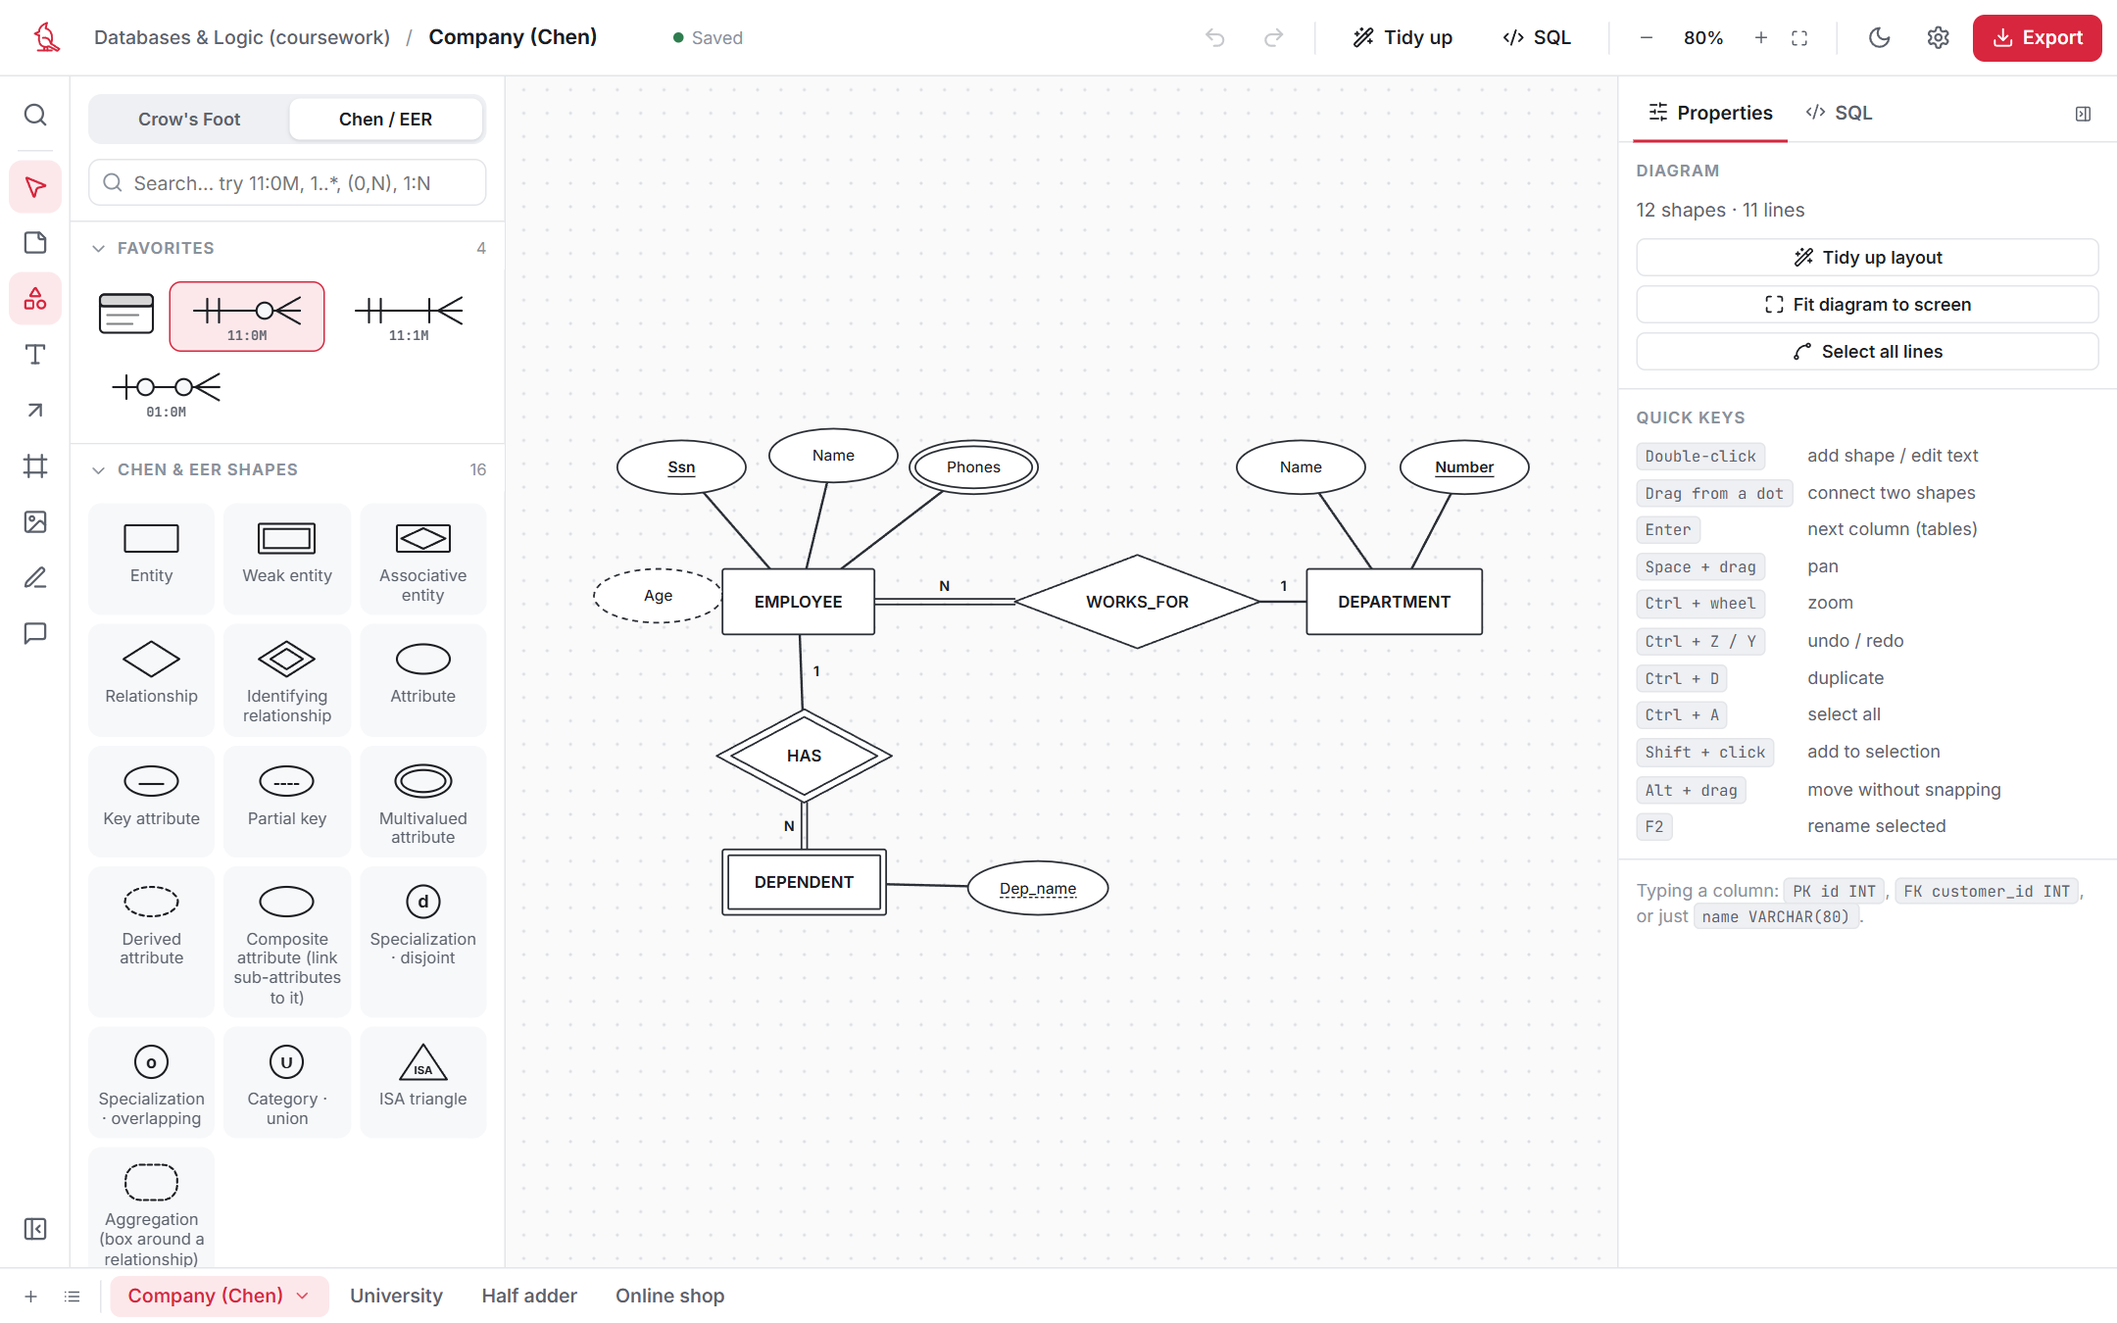
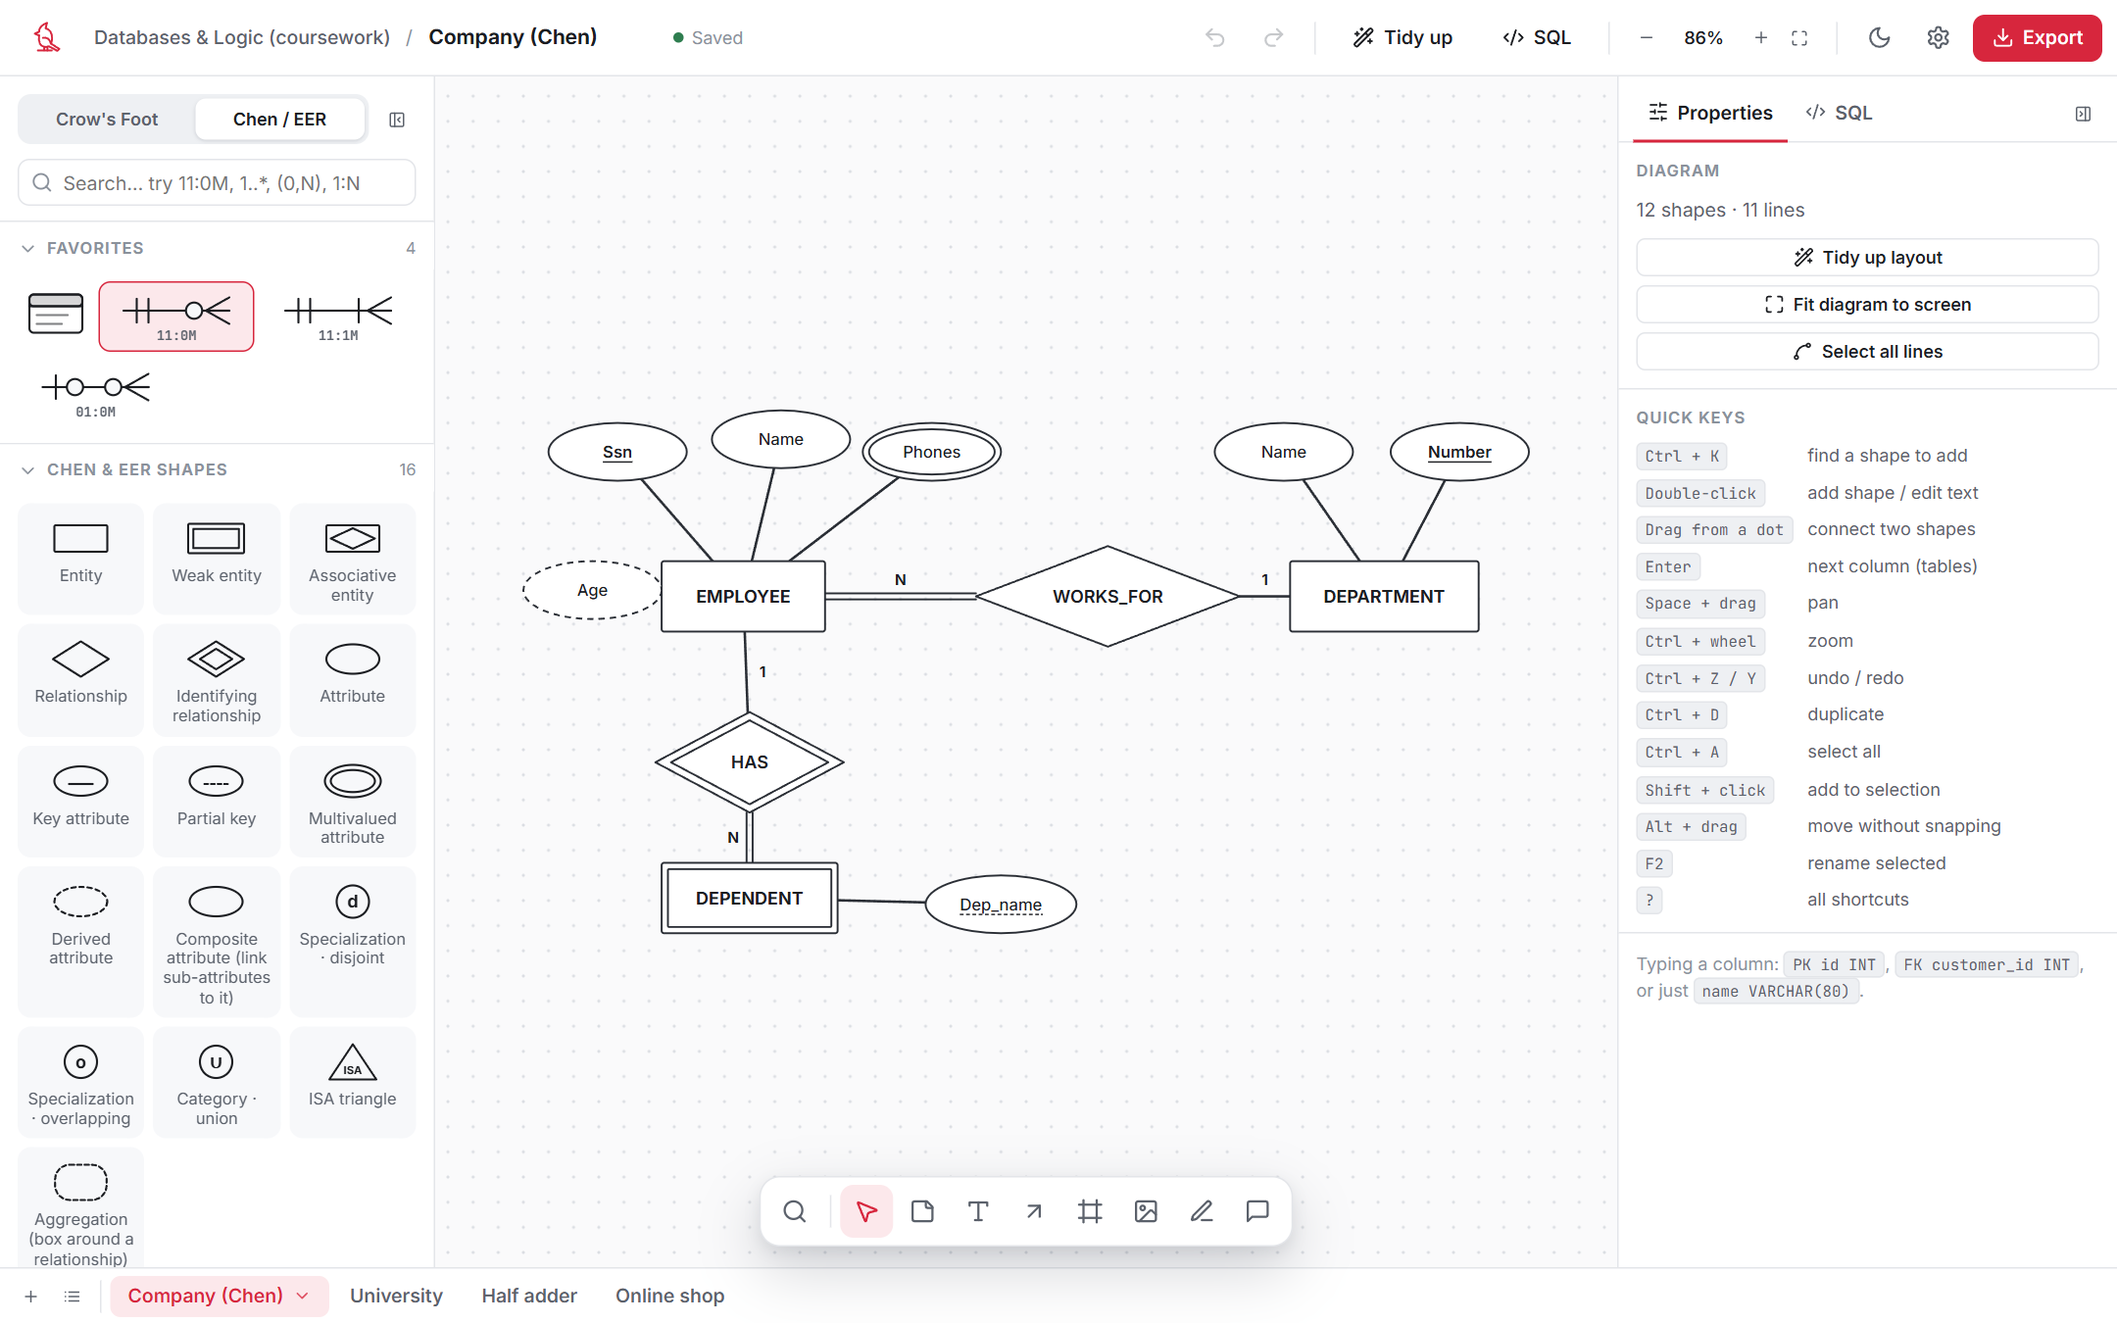
Cardinal 0.2.1: floating tool dock
- Figma-style floating tool dock at the bottom of the canvas; tool popovers open above it
- Left rail removed: shape library has its own hide button (same icon as the right panel) and a slim tab to bring it back
- README screenshots updated for the new layout
- Update popup planned (roadmap + notes for later)

diff --git a/Cardinal/src/editor/ToolRail.tsx b/Cardinal/src/editor/ToolRail.tsx
@@ -1,5 +1,5 @@
 import { useEffect, useRef, useState } from 'react';
-import { ArrowUpRight, Frame, Image as ImageIcon, MessageSquare, MousePointer2, PanelLeftClose, PanelLeftOpen, PenLine, Search, Shapes, StickyNote, Type } from 'lucide-react';
+import { ArrowUpRight, Frame, Image as ImageIcon, MessageSquare, MousePointer2, PenLine, Search, StickyNote, Type } from 'lucide-react';
 import { useEditor, type Tool } from '../store/editor';
 import { PALETTE, PALETTE_KEYS } from '../model/palette';
 import { SHAPES } from '../model/catalog';
@@ -37,10 +37,12 @@ function Swatch({ k, on, onClick, size = 24 }: { k: ColorKey; on: boolean; onCli
   return <button className={`swatch${on ? ' on' : ''}`} style={{ width: size, height: size, background: bg, borderRadius: 7 }} title={k === 'auto' ? 'Ink' : PALETTE[k as Exclude<ColorKey, 'auto'>].name} onClick={onClick} />;
 }
 
-export function ToolRail({ libOpen, onToggleLib, onSearch }: { libOpen: boolean; onToggleLib: () => void; onSearch: () => void }) {
+/** Floating tool dock at the bottom of the canvas (Figma style). Popovers open above the button that opened them. */
+export function ToolRail({ onSearch }: { onSearch: () => void }) {
   const tool = useEditor((s) => s.tool);
   const opts = useEditor((s) => s.toolOpts);
   const [pop, setPop] = useState<null | 'note' | 'pen' | 'line' | 'frame'>(null);
+  const [popX, setPopX] = useState(0);
   const fileRef = useRef<HTMLInputElement>(null);
   const railRef = useRef<HTMLDivElement>(null);
   const st = useEditor.getState();
@@ -58,28 +60,27 @@ export function ToolRail({ libOpen, onToggleLib, onSearch }: { libOpen: boolean;
     setPop(popover && pop !== popover ? popover : null);
   };
   const btn = (label: string, key: string, icon: React.ReactNode, active: boolean, onClick: () => void) => (
-    <button className={`rail-btn${active ? ' on' : ''}`} title={key ? `${label} (${key})` : label} aria-label={label} onClick={onClick}>{icon}</button>
+    <button className={`rail-btn${active ? ' on' : ''}`} title={key ? `${label} (${key})` : label} aria-label={label}
+      onClick={(e) => { setPopX(e.currentTarget.offsetLeft + e.currentTarget.offsetWidth / 2); onClick(); }}>{icon}</button>
   );
+  const popStyle = (w = 236): React.CSSProperties => ({ left: Math.max(w / 2, popX), width: w });
 
   return (
-    <div className="rail" ref={railRef}>
-      {btn('Search shapes', '/', <Search size={18} />, false, onSearch)}
+    <div className="rail dock" ref={railRef} role="toolbar" aria-label="Tools">
+      {btn('Find a shape to add', 'Ctrl K', <Search size={18} />, false, onSearch)}
       <div className="rail-sep" />
       {btn('Select', 'V', <MousePointer2 size={18} />, tool === 'select', () => pick('select'))}
       {btn('Sticky note', 'N', <StickyNote size={18} />, tool === 'note', () => pick('note', 'note'))}
-      {btn(libOpen ? 'Hide shape library' : 'Show shape library', '', <Shapes size={18} />, libOpen, onToggleLib)}
       {btn('Text', 'T', <Type size={18} />, tool === 'text', () => pick('text'))}
       {btn('Line', 'L', <ArrowUpRight size={18} />, tool === 'line', () => pick('line', 'line'))}
       {btn('Frames & containers', '', <Frame size={18} />, pop === 'frame', () => setPop(pop === 'frame' ? null : 'frame'))}
       {btn('Image', '', <ImageIcon size={18} />, false, () => fileRef.current?.click())}
       {btn('Pen', 'P', <PenLine size={18} />, tool === 'pen', () => pick('pen', 'pen'))}
       {btn('Comment', 'C', <MessageSquare size={18} />, tool === 'comment', () => pick('comment'))}
-      <div className="spacer" />
-      {btn(libOpen ? 'Collapse panel' : 'Expand panel', '', libOpen ? <PanelLeftClose size={18} /> : <PanelLeftOpen size={18} />, false, onToggleLib)}
       <input ref={fileRef} type="file" accept="image/*" hidden onChange={(e) => { const f = e.target.files?.[0]; e.target.value = ''; if (f) insertImage(f); }} />
 
       {pop === 'note' && (
-        <div className="rail-pop" style={{ top: 92 }}>
+        <div className="rail-pop" style={popStyle()}>
           <div className="menu-label">Sticky note color</div>
           <div className="pop-swatches">
             {PALETTE_KEYS.map((k) => (
@@ -91,7 +92,7 @@ export function ToolRail({ libOpen, onToggleLib, onSearch }: { libOpen: boolean;
         </div>
       )}
       {pop === 'pen' && (
-        <div className="rail-pop" style={{ top: 330 }}>
+        <div className="rail-pop" style={popStyle()}>
           <div className="pen-widths">
             {PEN_WIDTHS.map((w) => (
               <button key={w} className={`pen-w${opts.penWidth === w ? ' on' : ''}`} title={`${w}px`} onClick={() => st.setToolOpts({ penWidth: w })}>
@@ -106,7 +107,7 @@ export function ToolRail({ libOpen, onToggleLib, onSearch }: { libOpen: boolean;
         </div>
       )}
       {pop === 'line' && (
-        <div className="rail-pop" style={{ top: 196 }}>
+        <div className="rail-pop" style={popStyle()}>
           <div className="menu-label">Line</div>
           <div className="seg">
             <button className={opts.lineArrow ? 'on' : ''} onClick={() => st.setToolOpts({ lineArrow: true })}>Arrow</button>
@@ -116,7 +117,7 @@ export function ToolRail({ libOpen, onToggleLib, onSearch }: { libOpen: boolean;
         </div>
       )}
       {pop === 'frame' && (
-        <div className="rail-pop" style={{ top: 230, width: 230, padding: 5 }}>
+        <div className="rail-pop" style={{ ...popStyle(230), padding: 5 }}>
           {FRAME_ITEMS.map((id) => {
             const d = SHAPES.find((s) => s.id === id)!;
             return (

diff --git a/Cardinal/src/styles/global.css b/Cardinal/src/styles/global.css
@@ -308,12 +308,18 @@ input[type=range] { accent-color: var(--accent); flex: 1; }
 .lib-section.fav.over { background: var(--select-soft); outline: 2px dashed var(--select); outline-offset: -4px; }
 
 /* tool rail */
-.rail { width: 48px; flex: none; background: var(--panel); border-right: 1px solid var(--border); display: flex; flex-direction: column; align-items: center; gap: 2px; padding: 8px 0; position: relative; z-index: 4; }
+.canvas-area { flex: 1; display: flex; position: relative; min-width: 0; }
+/* floating tool dock, bottom centre of the canvas */
+.rail.dock {
+  position: absolute; left: 50%; bottom: 14px; transform: translateX(-50%); z-index: 6;
+  display: flex; align-items: center; gap: 2px; padding: 5px; border-radius: 14px;
+  background: var(--panel); border: 1px solid var(--border); box-shadow: var(--shadow-3);
+}
 .rail-btn { width: 36px; height: 36px; border: 0; border-radius: 9px; background: transparent; color: var(--text-2); display: flex; align-items: center; justify-content: center; cursor: pointer; }
 .rail-btn:hover { background: var(--panel-3); color: var(--text); }
 .rail-btn.on { background: var(--accent-soft); color: var(--accent); }
-.rail-sep { width: 24px; height: 1px; background: var(--border); margin: 4px 0; }
-.rail-pop { position: absolute; left: 52px; width: 236px; padding: 8px; border-radius: 12px; background: var(--panel); border: 1px solid var(--border); box-shadow: var(--shadow-3); z-index: 30; }
+.rail-sep { width: 1px; height: 22px; background: var(--border); margin: 0 4px; }
+.rail-pop { position: absolute; bottom: calc(100% + 10px); transform: translateX(-50%); width: 236px; padding: 8px; border-radius: 12px; background: var(--panel); border: 1px solid var(--border); box-shadow: var(--shadow-3); z-index: 30; }
 .pop-swatches { display: grid; grid-template-columns: repeat(5, 1fr); gap: 6px; padding: 4px; }
 .note-swatch { height: 34px; border-radius: 6px; border: 1px solid var(--border-strong); cursor: pointer; box-shadow: 0 2px 4px rgba(0,0,0,.08); transform: rotate(-2deg); }
 .note-swatch:nth-child(even) { transform: rotate(2deg); }
@@ -391,11 +397,12 @@ input[type=range] { accent-color: var(--accent); flex: 1; }
 .shape-tile:focus-visible, .icon-tile:focus-visible, .conn-tile:focus-visible { outline: 2px solid var(--select); outline-offset: 2px; }
 
 /* slim tab that brings the right panel back after it was hidden */
-.right-reopen {
+.right-reopen, .left-reopen {
   flex: none; width: 34px; border: 0; border-left: 1px solid var(--border); background: var(--panel); color: var(--text-2);
   display: flex; align-items: flex-start; justify-content: center; padding-top: 12px; cursor: pointer;
 }
-.right-reopen:hover { color: var(--text); background: var(--panel-3); }
+.left-reopen { border-left: 0; border-right: 1px solid var(--border); }
+.right-reopen:hover, .left-reopen:hover { color: var(--text); background: var(--panel-3); }
 
 /* Preferences → About */
 .about { display: flex; flex-direction: column; align-items: center; text-align: center; gap: 4px; padding: 30px 10px; }

diff --git a/Cardinal/src/editor/ShapesPanel.tsx b/Cardinal/src/editor/ShapesPanel.tsx
@@ -1,5 +1,5 @@
 import { useEffect, useMemo, useRef, useState } from 'react';
-import { ChevronDown, ChevronRight, Search, Star, StarOff, X, MousePointerClick, Spline, Plus } from 'lucide-react';
+import { ChevronDown, ChevronRight, Search, Star, StarOff, X, MousePointerClick, Spline, Plus, PanelLeftClose } from 'lucide-react';
 import { useEditor } from '../store/editor';
 import { usePrefs } from '../store/prefs';
 import { CONNECTORS, SHAPES, equivalents, searchItems, shapeById, connectorById, type ConnectorDef, type ShapeDef, type ShapeGroup } from '../model/catalog';
@@ -178,7 +178,7 @@ const LOGIC_SECTIONS: { id: ShapeGroup; title: string }[] = [
 const LOGIC_GROUPS = new Set<string>(LOGIC_SECTIONS.map((g) => g.id));
 const ER_GROUPS = new Set<string>(['crowsfoot', 'chen']);
 
-export function ShapesPanel({ searchRef }: { searchRef?: React.RefObject<HTMLInputElement> }) {
+export function ShapesPanel({ searchRef, onCollapse }: { searchRef?: React.RefObject<HTMLInputElement>; onCollapse?: () => void }) {
   const circuit = useEditor((s) => s.doc.mode === 'circuit');
   const notation = useEditor((s) => s.panelNotation);
   const setNotation = useEditor((s) => s.setPanelNotation);
@@ -242,7 +242,10 @@ export function ShapesPanel({ searchRef }: { searchRef?: React.RefObject<HTMLInp
   return (
     <aside className="side lib" style={{ width: 296 }}>
       <div className="side-head">
-        {circuit ? <div className="lib-title">Logic circuit parts</div> : <NotationToggle value={notation} onChange={setNotation} />}
+        <div style={{ display: 'flex', alignItems: 'center', gap: 6 }}>
+          <div style={{ flex: 1, minWidth: 0 }}>{circuit ? <div className="lib-title">Logic circuit parts</div> : <NotationToggle value={notation} onChange={setNotation} />}</div>
+          {onCollapse && <button className="icon-btn sm" title="Hide the shape library" aria-label="Hide the shape library" onClick={onCollapse}><PanelLeftClose size={15} /></button>}
+        </div>
         <div className="search">
           <Search size={15} />
           <input

diff --git a/Cardinal/src/editor/EditorPage.tsx b/Cardinal/src/editor/EditorPage.tsx
@@ -1,5 +1,5 @@
 import { useCallback, useEffect, useRef, useState } from 'react';
-import { Check, ChevronDown, Code2, Table2, Copy, Download, List, Maximize, Minus, Moon, PanelRightClose, PanelRightOpen, Pencil, Plus, Redo2, Settings, SlidersHorizontal, Sun, Trash2, Undo2, Wand2 } from 'lucide-react';
+import { Check, ChevronDown, Code2, Table2, Copy, Download, List, Maximize, Minus, Moon, PanelLeftOpen, PanelRightClose, PanelRightOpen, Pencil, Plus, Redo2, Settings, SlidersHorizontal, Sun, Trash2, Undo2, Wand2 } from 'lucide-react';
 import { useEditor } from '../store/editor';
 import { useLibrary } from '../store/library';
 import { usePrefs } from '../store/prefs';
@@ -193,9 +193,13 @@ export function EditorPage({ diagramId }: { diagramId: string }) {
         setRightTab(rightTab === 'sql' ? 'props' : 'sql'); if (rightTab !== 'sql' && rightW < 400) setRightW(420);
       }} />
       <div className="editor-body">
-        <ToolRail libOpen={libOpen} onToggleLib={toggleLib} onSearch={openSearch} />
-        {libOpen && <ShapesPanel searchRef={searchRef} />}
-        {loaded === 'ok' ? <Canvas /> : <div className="canvas-wrap" />}
+        {libOpen
+          ? <ShapesPanel searchRef={searchRef} onCollapse={toggleLib} />
+          : <button className="left-reopen" title="Show the shape library" aria-label="Show the shape library" onClick={toggleLib}><PanelLeftOpen size={17} /></button>}
+        <div className="canvas-area">
+          {loaded === 'ok' ? <Canvas /> : <div className="canvas-wrap" />}
+          <ToolRail onSearch={openSearch} />
+        </div>
         {!rightOpen && (
           <button className="right-reopen" title="Show the side panel" aria-label="Show the side panel" onClick={() => setRightOpen(true)}><PanelRightOpen size={17} /></button>
         )}

diff --git a/.claude/project/data/versions.js b/.claude/project/data/versions.js
@@ -4,6 +4,25 @@ window.HUB_DATA["versions"] = /*DATA*/
   "pending": [],
   "versions": [
     {
+      "version": "0.2.1",
+      "date": "2026-10-19",
+      "items": [
+        {
+          "text": "Figma-style **floating tool dock** at the bottom of the canvas (find shape, select, note, text, line, frames, image, pen, comment); popovers open above it. The left rail is gone: the shape library has its own **hide** button in its header (same icon as the right panel) and a slim tab brings it back, so there is one clear control per panel.",
+          "pages": [
+            {
+              "name": "Editor canvas",
+              "type": "edit"
+            },
+            {
+              "name": "Shapes panel",
+              "type": "edit"
+            }
+          ]
+        }
+      ]
+    },
+    {
       "version": "0.2.0",
       "date": "2026-10-18",
       "items": [

diff --git a/.claude/project/data/checklist.js b/.claude/project/data/checklist.js
@@ -59,7 +59,13 @@ window.HUB_DATA["checklist"] = /*DATA*/
     },
     {
       "title": "Notes for later",
-      "items": []
+      "items": [
+        {
+          "text": "Update popup (option A): check GitHub for a newer release, popup with Update now / Remind me later / Skip this version",
+          "status": "todo",
+          "detail": "Decided 2026-10-19: option A (notify + download the right installer), build later. Still to decide: \"Check for updates\" on or off by default. Must also update the README/About privacy wording (\"never phones home\")."
+        }
+      ]
     },
     {
       "title": "Phase 2 / future",

diff --git a/.claude/project/data/meta.js b/.claude/project/data/meta.js
@@ -4,7 +4,7 @@ window.HUB_DATA["meta"] = /*DATA*/
   "appName": "Cardinal",
   "codename": "Cardinal",
   "tagline": "Offline ERD & EER diagrams and logic circuits whose lines route themselves.",
-  "version": "0.2.0",
+  "version": "0.2.1",
   "versionMeaning": "x = major milestone (1 = daily-driver complete) · y = feature release · z = fixes",
   "premiumEnabled": false,
   "pages": [

diff --git a/Cardinal/src/version.ts b/Cardinal/src/version.ts
@@ -1,2 +1,2 @@
 // Must always match .claude/project/data/meta.js → version.
-export const APP_VERSION = '0.2.0';
+export const APP_VERSION = '0.2.1';

diff --git a/.claude/docs/architecture.md b/.claude/docs/architecture.md
@@ -54,7 +54,7 @@ App version lives in `src/version.ts`, `.claude/project/data/meta.js`, `package.
 - `model/catalog.ts`: every library item has a stable `id`. Favorites are stored in prefs as `shape:<id>` / `conn:<id>`.
 - Containers render behind everything, are not routing obstacles, and drag their contents along. Comments and pen strokes (`drawing`) are also not obstacles. Comments are never exported.
 - `editor/fieldParse.ts` + `editor/RowEditor.tsx`: three-cell row editor. `smartParse(cell, text)` spreads a whole typed row across cells. Suggestions cover keys (with explanations), FK candidates from other tables' PKs, common columns and SQL types. Saving a row with a new FK reference adds a PK-row → FK-row line if the tables aren't linked yet.
-- `editor/ToolRail.tsx`: tools are editor-store state (`tool`, `toolOpts` persisted in localStorage). Canvas pointerdown handles note/text/comment placement, pen strokes and the line tool.
+- `editor/ToolRail.tsx`: the floating tool dock (bottom centre of `.canvas-area`, popovers open above the clicked button). Tools are editor-store state (`tool`, `toolOpts` persisted in localStorage). Canvas pointerdown handles note/text/comment placement, pen strokes and the line tool.
 
 ## Logic circuits (Gates section)
 - A diagram is a circuit when `doc.mode === 'circuit'` (`meta.mode` mirrors it for the home cards). ER diagrams leave `mode` unset.

diff --git a/ROADMAP.md b/ROADMAP.md
@@ -65,7 +65,7 @@ Small things that make big diagrams nicer to work on.
 
 ## 💭 Ideas, not planned yet
 
-- Auto-update inside the app
+- **Update popup**: Cardinal tells you when a new version is out (Update now · Remind me later · Skip this version). Planned.
 - Code-signing, so the "unknown publisher" warning goes away (it costs money every year, so not yet)
 
 <sub>This file mirrors the project's internal checklist. Last updated for 0.2.0.</sub>
